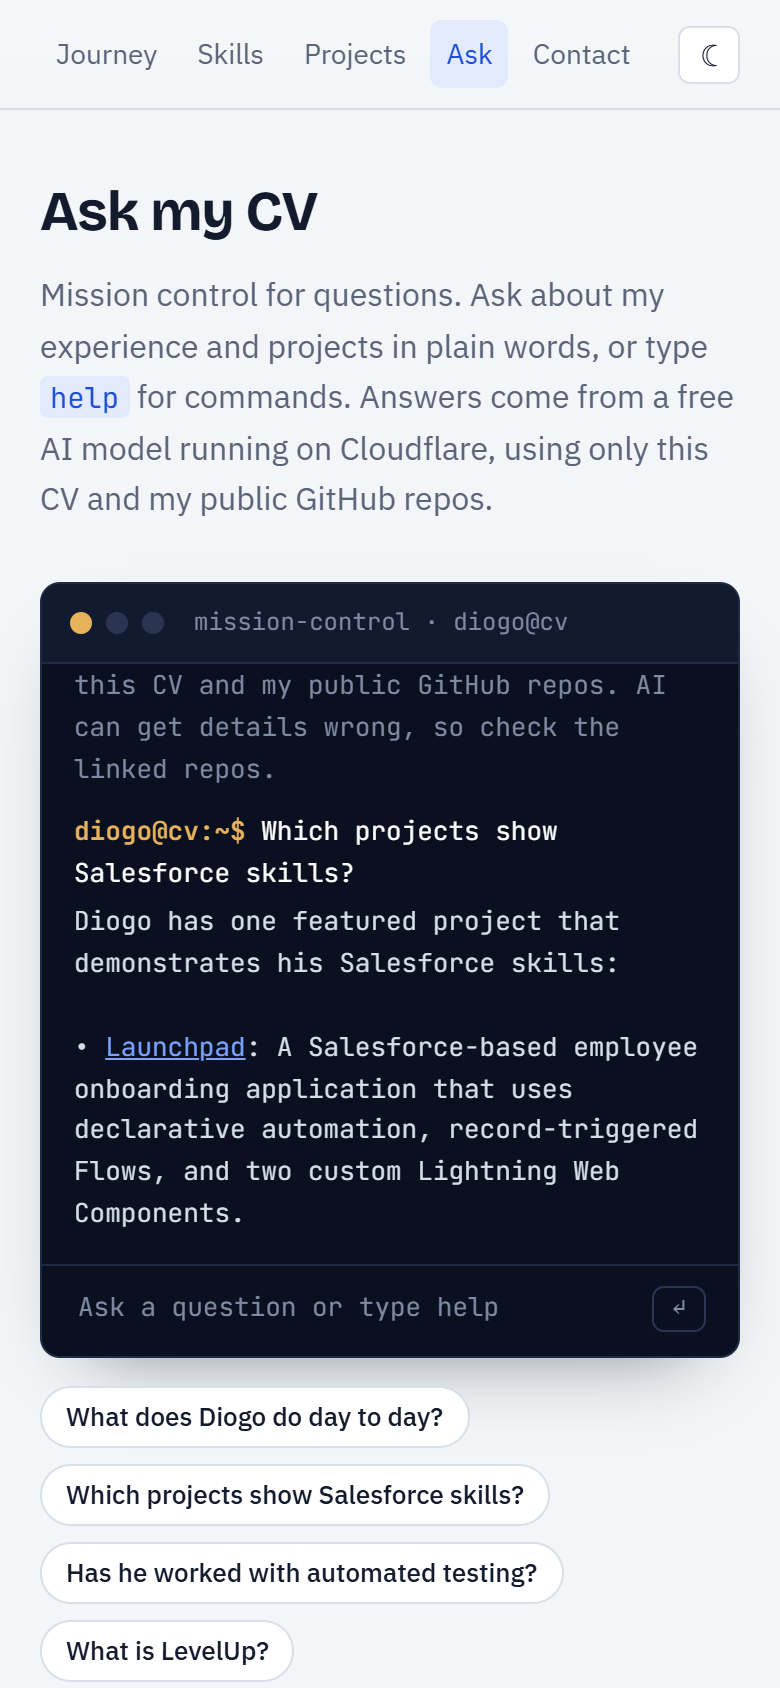
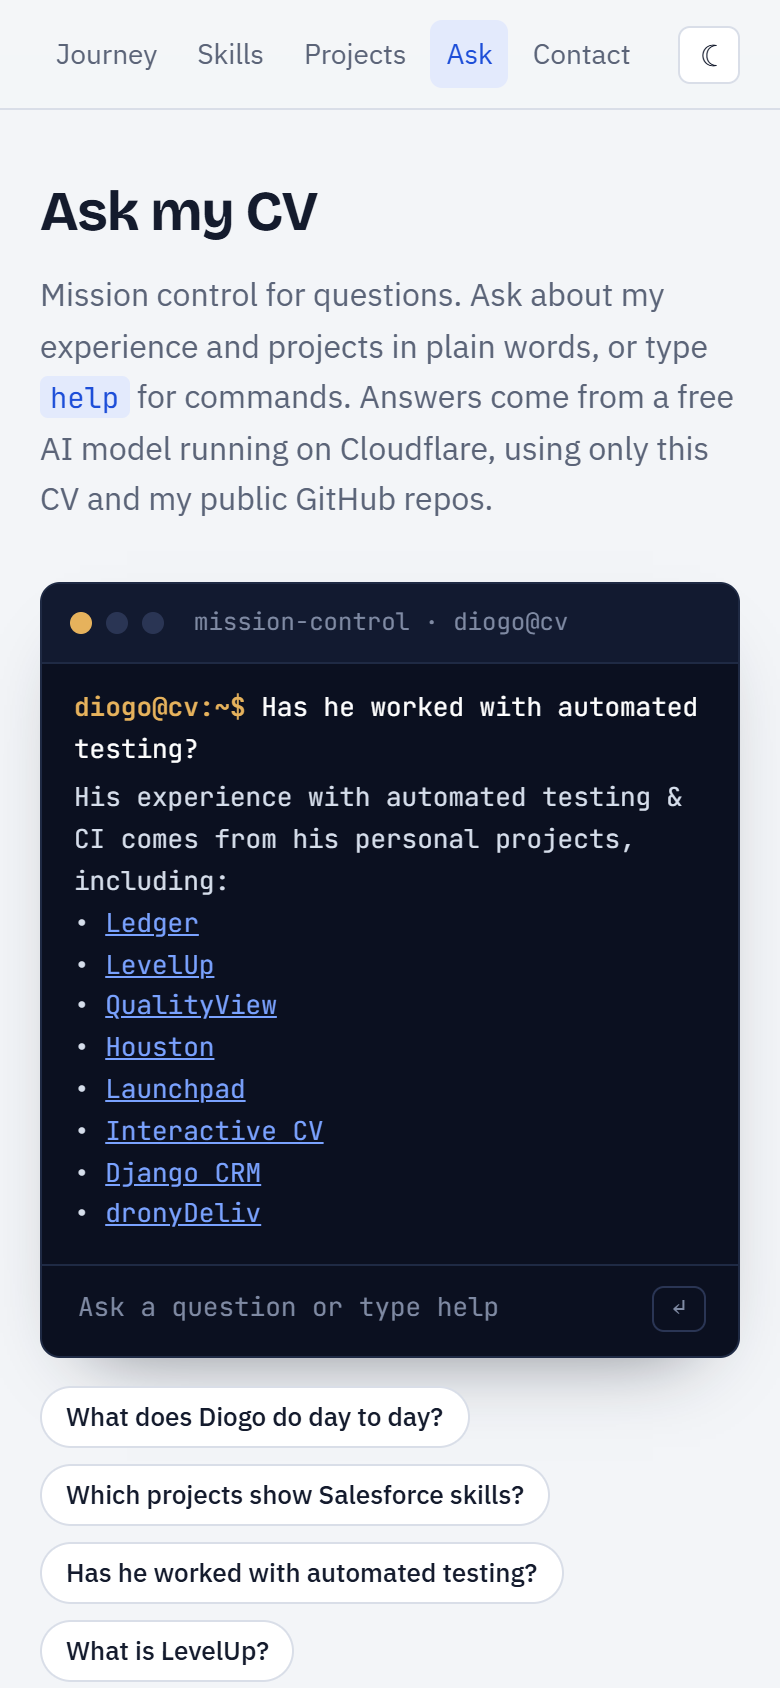
README: retake the phone screenshot after the skills fix
Shows the question the chat used to get wrong, "Has he worked with
automated testing?", now answered correctly from the live site: the
experience comes from personal projects, with links to each one.

Changed region(s): [[0.0923, 0.4005, 0.8923, 0.7393]]

diff --git a/README.md b/README.md
@@ -30,7 +30,7 @@ Scroll and a rocket flies out from Mercury, one planet per milestone, towards th
 
 | Ask my CV on a phone |
 | --- |
-| <img src="docs/screenshots/phone-ask.png" alt="Ask my CV terminal on a phone, answering which projects show Salesforce skills" width="300"> |
+| <img src="docs/screenshots/phone-ask.png" alt="Ask my CV terminal on a phone, answering that his automated testing experience comes from personal projects" width="300"> |
 
 ## Features
 
